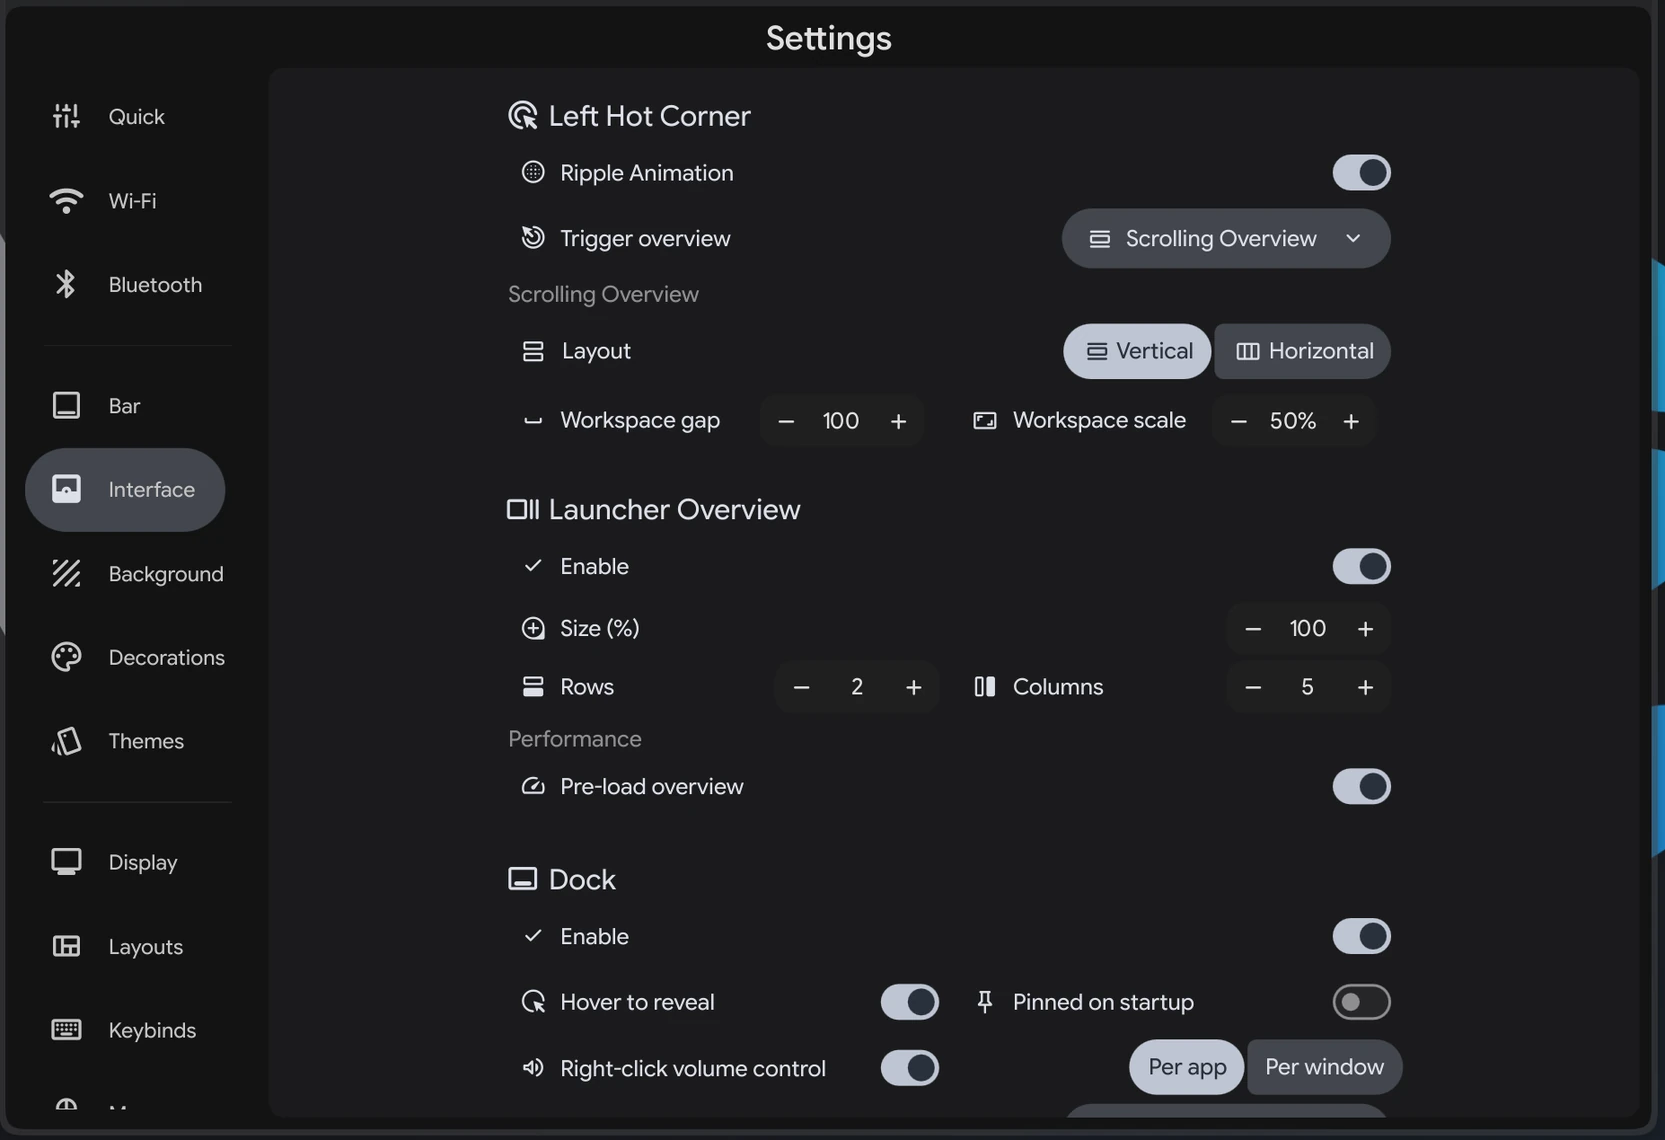
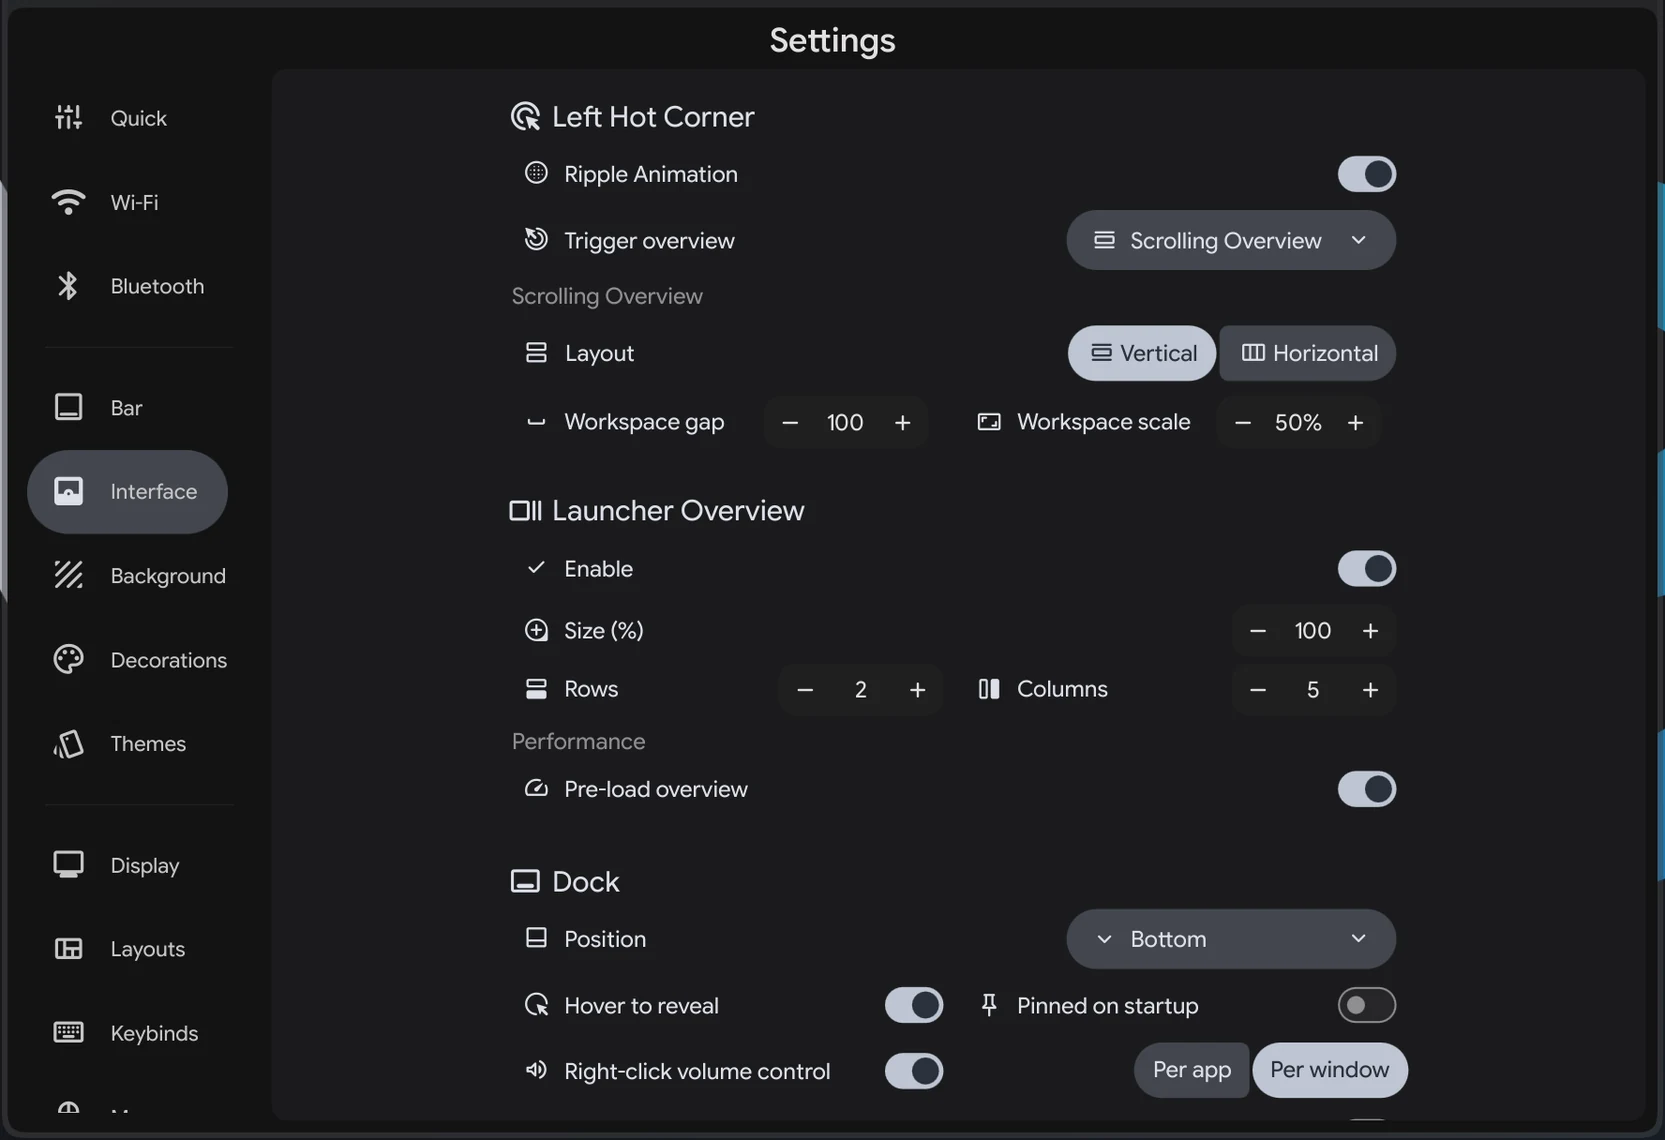
docs: the interface page shows the dock's edge picker
The first screenshot still showed a Dock section headed by an Enable switch,
which the release replaced with a Position picker — Disabled became one of its
choices rather than a toggle beside it. Retaken, and the caption now describes
what the shot actually holds: the hot corner, the two overviews and the dock.
It had claimed sidebars, which are not in the frame and are documented further
down the page.

Position is written up in place of Enable, including the part that surprises
people: choosing the edge the bar already occupies moves the bar rather than
refusing the choice. Hover-to-reveal and pinning no longer describe the bottom
edge specifically, since neither has been bottom-only since the dock learned to
stand on its side.

diff --git a/docs-pages.js b/docs-pages.js
@@ -473,7 +473,7 @@ PAGES.interface = {
   group: 'Settings', title: 'Interface', icon: 'iface',
   lede: 'The dock, the sidebars, the hot corner, and the lock screen — the parts of the desktop you reach for, rather than the parts that are simply drawn.',
   render: () => `
-    ${shot('InterfaceConfig-1.webp','Dock and sidebars.','The Dock section controls the app launcher at the bottom. Left and Right Sidebars hold Mainstream\'s AI assistant and quick toggles.')}
+    ${shot('InterfaceConfig-1.webp','The hot corner, the overviews and the dock.','The Dock section sets which edge the dock lives on and how it behaves. Above it, the hot corner picks which overview it opens, and the Launcher Overview sets the size of the app grid.')}
 
     ${callout('note','Looking for decorations or fonts?', '<p>Window borders, blur, shadows, rounded corners and title bars — along with your app style, icons, pointer and fonts — now live on their own <a href="#decorations">Decorations</a> page.</p>')}
 
@@ -481,9 +481,9 @@ PAGES.interface = {
     ${twoShot('Dock-Right-Click-Per-App.webp','Right-click a dock icon — per-app view.','Dock-Right-Click-Per-Window.webp','Per-window view shows open instances individually with live volume sliders.')}
 
     <div class="props">
-      <div class="prop"><center><div class="k">Enable</div></center><div class="v">Master toggle for the bottom app dock.</div></div>
-      <div class="prop"><center><div class="k">Hover to reveal</div></center><div class="v">The dock stays hidden while a window is focused and slides up when your cursor touches the bottom edge. Off: it only appears on an empty workspace, not on hover.</div></div>
-      <div class="prop"><center><div class="k">Pinned on startup</div></center><div class="v">Starts the session with the dock pinned open — always visible, reserving its space at the bottom — until you unpin it.</div></div>
+      <div class="prop"><center><div class="k">Position</div></center><div class="v">Which edge the dock sits on: <span class="tag">Bottom</span> the default &nbsp; <span class="tag">Top</span> &nbsp; <span class="tag">Left</span> &nbsp; <span class="tag">Right</span> &nbsp; <span class="tag">Disabled</span> turns the dock off. On the left or right it stands vertically, icons stacked. Pick the edge your bar is already using and the bar moves to the opposite one, so the two never share a side.</div></div>
+      <div class="prop"><center><div class="k">Hover to reveal</div></center><div class="v">The dock stays hidden while a window is focused and slides in when your cursor touches the edge it sits on. Off: it only appears on an empty workspace, not on hover.</div></div>
+      <div class="prop"><center><div class="k">Pinned on startup</div></center><div class="v">Starts the session with the dock pinned open — always visible, reserving its space along its edge — until you unpin it.</div></div>
       <div class="prop"><center><div class="k">Right-click volume control</div></center><div class="v">Adds a volume slider and mute toggle to the right-click menu of a dock icon for any app currently playing audio. <b>Per window</b> gives each window its own slider — handy for browsers or Discord where different windows play different sound; <b>Per app</b> groups them into one.</div></div>
       <div class="prop"><center><div class="k">Tint app icons</div></center><div class="v">Desaturates each icon and washes it with your accent color for a uniform look. Keep off for brand-accurate icons.</div></div>
       <div class="prop"><center><div class="k">Launch animation</div></center><div class="v">The icon reacts when you start an app, so you can see the click landed before the window appears. <span class="tag">Bounce</span> the default &nbsp; <span class="tag">Pulse</span> &nbsp; <span class="tag">Pop</span> &nbsp; <span class="tag">Wobble</span> &nbsp; <span class="tag">None</span> Only a genuine launch animates — clicking an app that is already open, or opening a folder, does not.</div></div>

diff --git a/index.html b/index.html
@@ -393,7 +393,7 @@
   </div>
 </div>
 
-<script src="docs-pages.js?v=141"></script>
+<script src="docs-pages.js?v=142"></script>
 <script src="welcome-warm.js?v=30"></script>
 <script src="docs-app.js?v=135"></script>
 <script>
